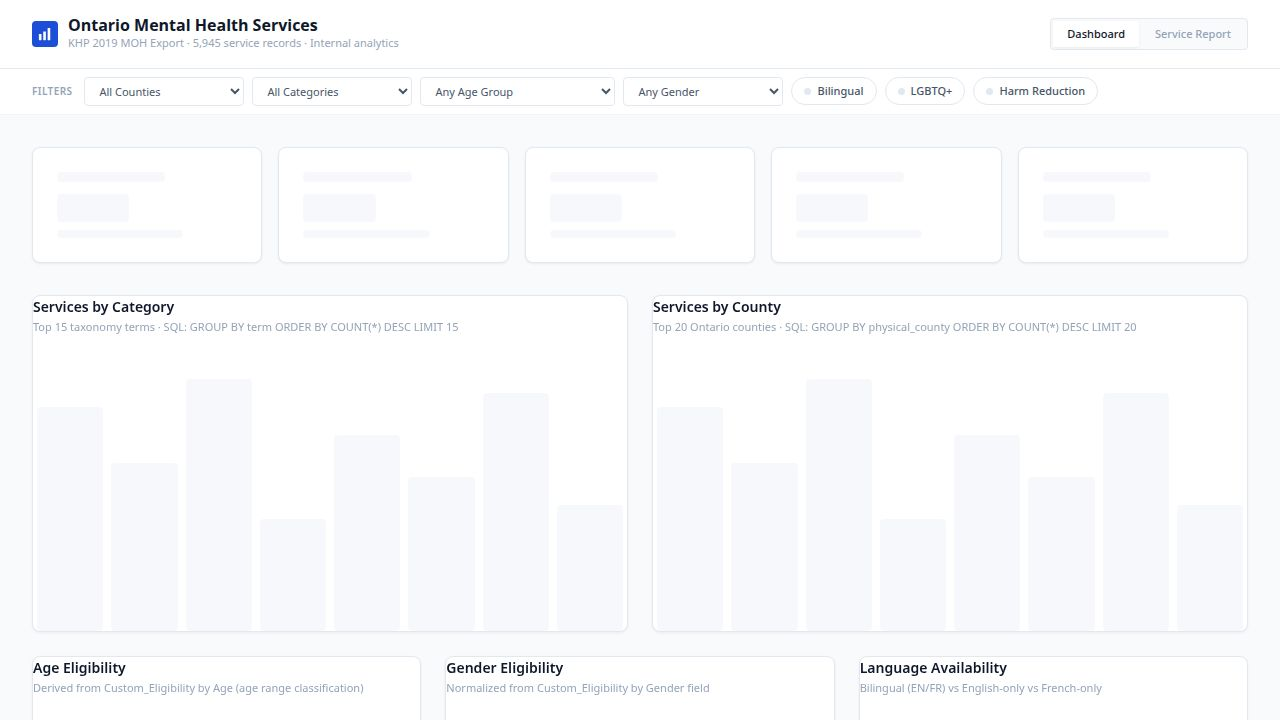
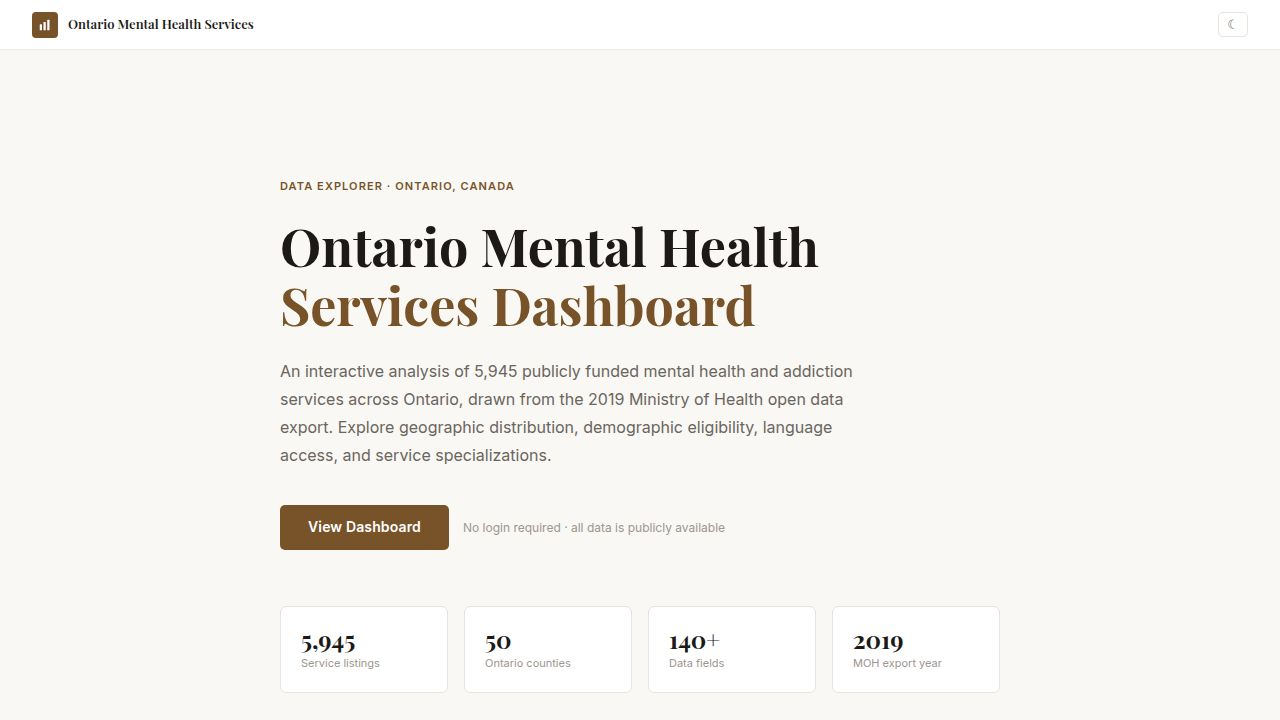
Add dark mode and improve dashboard navigation
Implement a dark mode toggle and persist theme choice. Update dashboard header to use an anchor tag for logo navigation and include the theme toggle button. Add theme toggle to landing page header.

Replit-Commit-Author: Agent
Replit-Commit-Session-Id: 246c5079-72dd-4eae-a351-4dc4ee0b3e96
Replit-Commit-Checkpoint-Type: full_checkpoint
Replit-Commit-Event-Id: 7ba473a5-cf8a-4c80-a9c2-e6bfa8ebebaa
Replit-Commit-Screenshot-Url: https://storage.googleapis.com/screenshot-production-us-central1/d302bc88-dafc-477b-a188-4cca83686d3f/246c5079-72dd-4eae-a351-4dc4ee0b3e96/uTLDqXm
Replit-Helium-Checkpoint-Created: true

diff --git a/artifacts/hospital-dashboard/src/pages/dashboard.tsx b/artifacts/hospital-dashboard/src/pages/dashboard.tsx
@@ -10,6 +10,7 @@
 
 import { useState, useEffect, Fragment } from "react";
 import { useLocation } from "wouter";
+import { useTheme } from "@/lib/useTheme";
 import {
   BarChart, Bar, XAxis, YAxis, CartesianGrid, Tooltip,
   ResponsiveContainer, PieChart, Pie, Cell, Legend,
@@ -234,6 +235,7 @@ function buildContext(filters: Filters, total?: number): string {
 
 export default function Dashboard() {
   const [, navigate] = useLocation();
+  const { isDark, toggle: toggleTheme } = useTheme();
   const [filters, setFilters]   = useState<Filters>({});
   const [search, setSearch]     = useState("");
   const [tab, setTab]           = useState<"charts"|"report">("charts");
@@ -351,7 +353,7 @@ export default function Dashboard() {
         position:"sticky", top:0, zIndex:10, display:"flex", alignItems:"center",
       }}>
         <div style={{ maxWidth:1400, width:"100%", margin:"0 auto", display:"flex", alignItems:"center", justifyContent:"space-between" }}>
-          <button onClick={() => navigate("/")} style={{ display:"flex", alignItems:"center", gap:12, background:"none", border:"none", cursor:"pointer", padding:0 }}>
+          <a href={import.meta.env.BASE_URL} style={{ display:"flex", alignItems:"center", gap:12, textDecoration:"none" }}>
             <div style={{ width:30, height:30, borderRadius:4, background:"var(--color-accent)", display:"flex", alignItems:"center", justifyContent:"center", flexShrink:0 }}>
               <svg width="14" height="14" viewBox="0 0 16 16" fill="none">
                 <rect x="1" y="7" width="3" height="8" fill="white" rx="0.5"/>
@@ -367,9 +369,9 @@ export default function Dashboard() {
                 KHP 2019 MOH Export · {kpis?.totalServices?.toLocaleString() ?? "5,945"} records
               </p>
             </div>
-          </button>
+          </a>
 
-          <nav style={{ display:"flex", gap:28, alignItems:"center" }}>
+          <nav style={{ display:"flex", gap:20, alignItems:"center" }}>
             {(["charts","report"] as const).map(t => (
               <button key={t} onClick={() => setTab(t)} style={{
                 background:"none", border:"none",
@@ -383,6 +385,10 @@ export default function Dashboard() {
                 {t==="charts" ? "Overview" : "Service Report"}
               </button>
             ))}
+            <button onClick={toggleTheme} title={isDark ? "Switch to light mode" : "Switch to dark mode"}
+              style={{ padding:"5px 8px", background:"none", border:"1px solid var(--color-border)", borderRadius:5, cursor:"pointer", color:"var(--color-text-secondary)", fontSize:13, lineHeight:1, display:"flex", alignItems:"center" }}>
+              {isDark ? "☀" : "☾"}
+            </button>
           </nav>
         </div>
       </header>

diff --git a/artifacts/hospital-dashboard/src/pages/landing.tsx b/artifacts/hospital-dashboard/src/pages/landing.tsx
@@ -1,4 +1,5 @@
 import { useLocation } from "wouter";
+import { useTheme } from "@/lib/useTheme";
 
 const SERIF = "'Playfair Display', Georgia, serif";
 
@@ -26,10 +27,30 @@ const FEATURES = [
 
 export default function Landing() {
   const [, navigate] = useLocation();
+  const { isDark, toggle: toggleTheme } = useTheme();
 
   return (
     <div style={{ minHeight:"100vh", background:"var(--color-bg)", fontFamily:"var(--font-sans)", display:"flex", flexDirection:"column" }}>
 
+      {/* ── Top bar ───────────────────────────────────────────────────── */}
+      <header style={{ height:50, borderBottom:"1px solid var(--color-border-subtle)", padding:"0 var(--space-8)", display:"flex", alignItems:"center", justifyContent:"space-between", background:"var(--color-surface)" }}>
+        <div style={{ display:"flex", alignItems:"center", gap:10 }}>
+          <div style={{ width:26, height:26, borderRadius:4, background:"var(--color-accent)", display:"flex", alignItems:"center", justifyContent:"center" }}>
+            <svg width="12" height="12" viewBox="0 0 16 16" fill="none">
+              <rect x="1" y="7" width="3" height="8" fill="white" rx="0.5"/>
+              <rect x="6" y="4" width="3" height="11" fill="white" rx="0.5"/>
+              <rect x="11" y="1" width="3" height="14" fill="white" rx="0.5"/>
+            </svg>
+          </div>
+          <span style={{ fontSize:13, fontWeight:600, fontFamily:SERIF, color:"var(--color-text-primary)" }}>
+            Ontario Mental Health Services
+          </span>
+        </div>
+        <button onClick={toggleTheme} title={isDark ? "Switch to light mode" : "Switch to dark mode"}
+          style={{ padding:"5px 8px", background:"none", border:"1px solid var(--color-border)", borderRadius:5, cursor:"pointer", color:"var(--color-text-secondary)", fontSize:13, lineHeight:1, display:"flex", alignItems:"center" }}>
+          {isDark ? "☀" : "☾"}
+        </button>
+      </header>
 
       {/* ── Hero ──────────────────────────────────────────────────────── */}
       <main style={{ flex:1, display:"flex", flexDirection:"column", alignItems:"center", padding:"var(--space-8)" }}>

diff --git a/artifacts/hospital-dashboard/src/index.css b/artifacts/hospital-dashboard/src/index.css
@@ -108,6 +108,31 @@ body {
   animation: slide-up var(--duration-base) var(--ease-out) both;
 }
 
+/* ── Dark mode ─────────────────────────────────────────────────────── */
+[data-theme="dark"] {
+  --color-bg:             #1a1612;
+  --color-surface:        #231e17;
+  --color-border:         #3d3429;
+  --color-border-subtle:  #2d261d;
+  --color-text-primary:   #f0e8dc;
+  --color-text-secondary: #b09c8a;
+  --color-text-muted:     #786c5d;
+  --color-accent:         #c49052;
+  --color-accent-mid:     #d4a866;
+  --color-accent-light:   #2a1c11;
+  color-scheme: dark;
+}
+
+[data-theme="dark"] .card,
+[data-theme="dark"] .card-kpi {
+  background: var(--color-surface);
+  border-color: var(--color-border);
+}
+
+[data-theme="dark"] .skeleton {
+  background: var(--color-border);
+}
+
 /* Recharts SVG overflow fix */
 .recharts-wrapper,
 .recharts-wrapper svg {

diff --git a/artifacts/hospital-dashboard/src/lib/useTheme.ts b/artifacts/hospital-dashboard/src/lib/useTheme.ts
@@ -1,0 +1,30 @@
+import { useState, useEffect } from "react";
+
+export type Theme = "light" | "dark";
+
+function getStored(): Theme {
+  try {
+    const v = localStorage.getItem("theme");
+    if (v === "dark" || v === "light") return v;
+  } catch {}
+  return "light";
+}
+
+function apply(theme: Theme) {
+  document.documentElement.dataset.theme = theme;
+}
+
+export function useTheme() {
+  const [theme, setTheme] = useState<Theme>(getStored);
+
+  useEffect(() => {
+    apply(theme);
+    try { localStorage.setItem("theme", theme); } catch {}
+  }, [theme]);
+
+  return {
+    theme,
+    isDark: theme === "dark",
+    toggle: () => setTheme(t => t === "dark" ? "light" : "dark"),
+  };
+}

diff --git a/artifacts/hospital-dashboard/src/main.tsx b/artifacts/hospital-dashboard/src/main.tsx
@@ -2,4 +2,10 @@ import { createRoot } from "react-dom/client";
 import App from "./App";
 import "./index.css";
 
+// Apply saved theme before React renders to avoid flash
+try {
+  const t = localStorage.getItem("theme");
+  if (t === "dark" || t === "light") document.documentElement.dataset.theme = t;
+} catch {}
+
 createRoot(document.getElementById("root")!).render(<App />);
